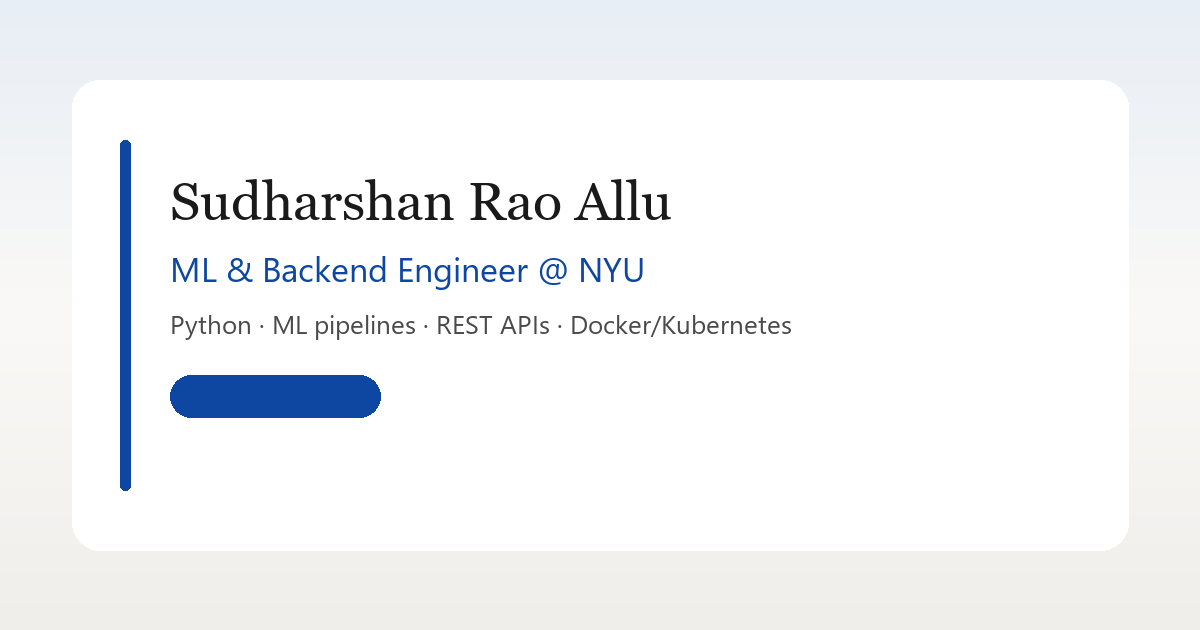
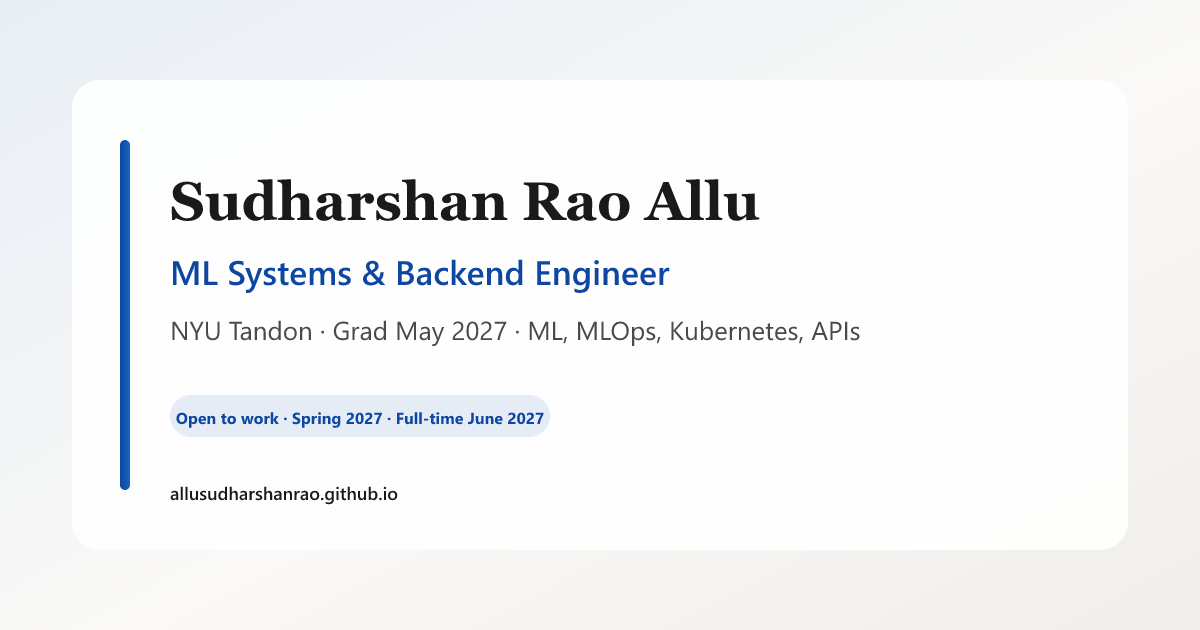
Polish index page: updates order, OG meta, blogs, titles.
Move open-to-work update to top, sync social descriptions, restore blog highlight, fix Secure Systems Lab title, regenerate og-image.png.

diff --git a/index.html b/index.html
@@ -7,15 +7,15 @@
   <meta name="description" content="Sudharshan Rao Allu — ML Systems & Backend Engineer at NYU Tandon (May 2027). Open to Spring 2027 internships and full-time roles from June 2027. End-to-end ML, MLOps, Kubernetes, APIs.">
   <link rel="canonical" href="https://allusudharshanrao.github.io/">
   <meta property="og:type" content="website">
-  <meta property="og:title" content="Sudharshan Rao Allu | ML Systems & Backend Engineer | NYU">
-  <meta property="og:description" content="End-to-end ML systems and backend engineering — training, MLOps, serving, and production APIs at NYU Tandon.">
+  <meta property="og:title" content="Sudharshan Rao Allu | ML Systems & Backend Engineer | Open to work">
+  <meta property="og:description" content="MS @ NYU Tandon (May 2027). Open to Spring 2027 internships and full-time from June 2027. End-to-end ML systems, MLOps, Kubernetes, APIs.">
   <meta property="og:url" content="https://allusudharshanrao.github.io/">
   <meta property="og:image" content="https://allusudharshanrao.github.io/og-image.png">
   <meta property="og:image:width" content="1200">
   <meta property="og:image:height" content="630">
   <meta name="twitter:card" content="summary_large_image">
-  <meta name="twitter:title" content="Sudharshan Rao Allu | ML Systems & Backend Engineer | NYU">
-  <meta name="twitter:description" content="End-to-end ML systems and backend engineering — training, MLOps, serving, and production APIs.">
+  <meta name="twitter:title" content="Sudharshan Rao Allu | ML Systems & Backend Engineer | Open to work">
+  <meta name="twitter:description" content="MS @ NYU Tandon (May 2027). Open to Spring 2027 internships and full-time from June 2027. End-to-end ML systems, MLOps, Kubernetes, APIs.">
   <meta name="twitter:image" content="https://allusudharshanrao.github.io/og-image.png">
   <meta property="og:site_name" content="Sudharshan Rao Allu">
   <meta name="author" content="Sudharshan Rao Allu">
@@ -128,6 +128,7 @@
             <li><strong>LLM serving:</strong> production <strong>RAG</strong> (hybrid retrieval, citations, <a href="https://smart-rag-assistant.streamlit.app/" target="_blank" rel="noopener noreferrer">live demo</a>), LoRA fine-tuning, multimodal VLM pipelines (<a href="projects.html#pixels-to-predictions">Pixels to Predictions</a>).</li>
             <li><strong>Backends:</strong> <strong>FastAPI</strong> / <strong>Django</strong>, Docker, auth, caching, rate limits, and tested APIs—plus hackathon stacks shipped on short timelines (<a href="hackathons.html">hackathons</a>).</li>
             <li><strong>Platforms:</strong> Terraform, Ansible, Helm, Prometheus/Grafana for reproducible ML infrastructure (<a href="projects.html#mlops-devops">platform repo</a>).</li>
+            <li><strong>Writing:</strong> <a href="blogs.html">eleven-part blog series</a> on LLM serving, distributed training, datacenter power, and datacenter–grid coordination (OpenG2G).</li>
           </ul>
         </div>
       </div>
@@ -146,6 +147,10 @@
                 <td>Started <strong>Research Intern</strong> at NYU Tandon ECE — grid-friendly AI data center co-design with <strong>Wenqi Cui</strong> and <strong>Brandon Reagen</strong> (<a href="experience.html#nyu-grid-datacenter-research">details</a>)</td>
               </tr>
               <tr>
+                <td class="updates-date">May 2026</td>
+                <td><strong>Open to work</strong> — Spring 2027 internships &amp; full-time ML Systems / Backend from June 2027 (grad May 2027)</td>
+              </tr>
+              <tr>
                 <td class="updates-date">Apr 2026</td>
                 <td>Spark Hack Series — New York (NVIDIA): built <strong>FloodIQ</strong> (<a href="hackathons.html#spark-hack-nyc">details</a>)</td>
               </tr>
@@ -159,7 +164,7 @@
               </tr>
               <tr>
                 <td class="updates-date">Sep 2025</td>
-                <td>Research Assistant at NYU Secure Systems Lab (Lind, WebAssembly / RustPOSIX)</td>
+                <td>Graduate Research Contributor at NYU Secure Systems Lab (Lind, WebAssembly / RustPOSIX)</td>
               </tr>
               <tr>
                 <td class="updates-date">Sep 2025</td>
@@ -168,10 +173,6 @@
               <tr>
                 <td class="updates-date">Aug 2025</td>
                 <td>Started MS in Computer Engineering at NYU Tandon</td>
-              </tr>
-              <tr>
-                <td class="updates-date">May 2026</td>
-                <td><strong>Open to work</strong> — Spring 2027 internships &amp; full-time ML Systems / Backend from June 2027 (grad May 2027)</td>
               </tr>
             </tbody>
           </table>
